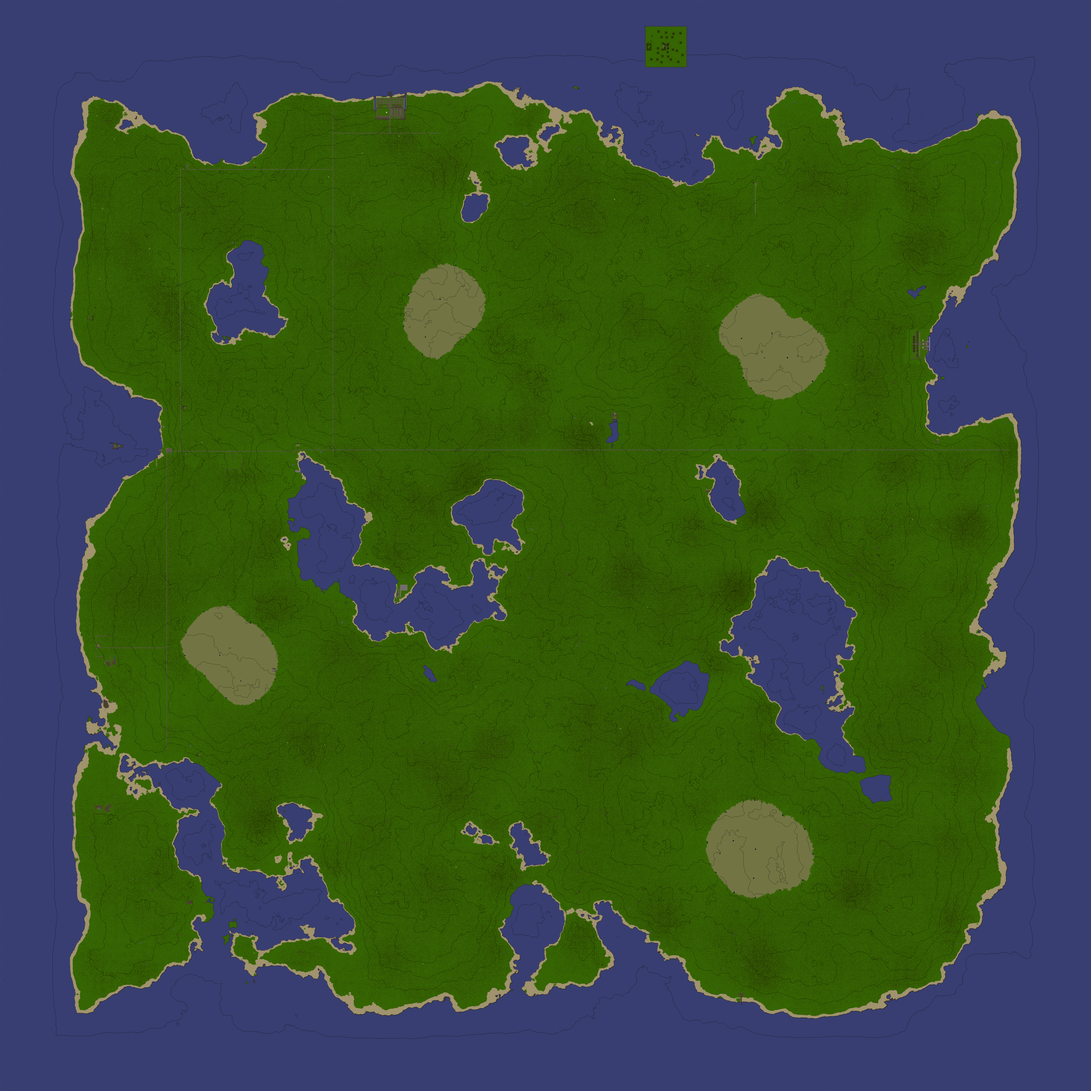
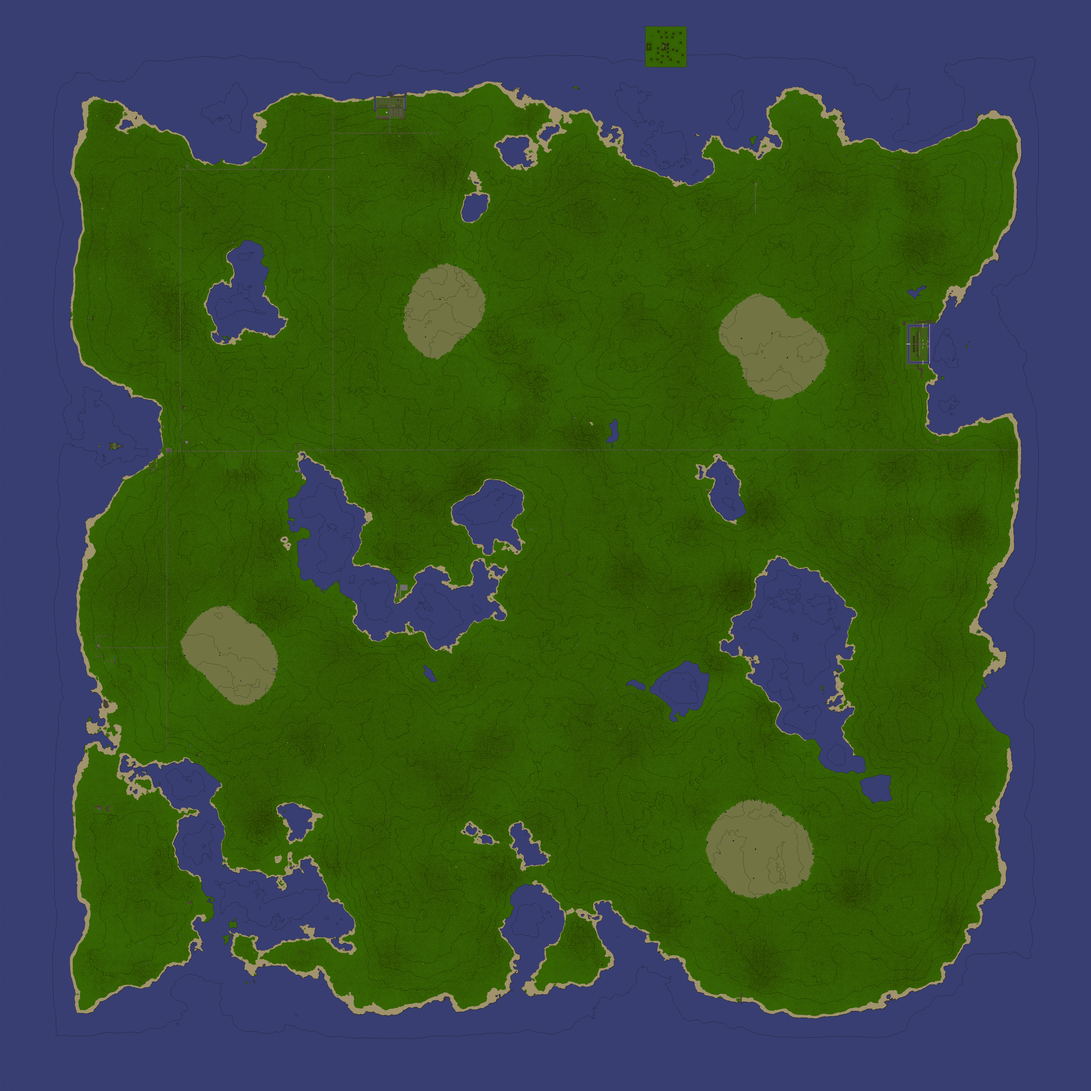
Add files via upload

Changed region(s): [[0.8125, 0.2812, 0.875, 0.3438], [0.3438, 0.0938, 0.375, 0.125]]

diff --git a/config.js b/config.js
@@ -74,37 +74,35 @@ deeds.push(new Deed('Aurora','Gaea','Gaea',1675474483281,false,4,637,1692,66,tru
 deeds.push(new Deed('Grukhanovill','Grukhan','Grukhan',1675674647878,false,4,615,1601,41,false,595,1596,623,1606,0));
 deeds.push(new Deed('Mystic Retreat','Peanut','Peanut',1675724177298,false,4,1464,398,44,false,1389,343,1539,461,5));
 deeds.push(new Deed('Portobelo','Kilem','Kilem',1675792074275,false,4,2836,689,240,false,2811,664,2861,714,0));
-deeds.push(new Deed('Art Of Zen','Zenity','Zenity',1675802758198,false,4,3370,633,182,false,3365,628,3380,638,0));
 deeds.push(new Deed('Hot Sauce Central','Frank','Frank',1675903902733,false,4,369,2423,106,false,363,2417,381,2433,0));
-deeds.push(new Deed('Wolfmere','Wolfdangler','Wolfdangler',1676057052473,false,4,882,931,3,false,862,911,902,941,0));
 deeds.push(new Deed('Peachstone','Zelan','Zelan',1676059323098,false,4,703,624,156,false,653,574,753,634,0));
 deeds.push(new Deed('Sleepy Town','Tinashunter','Tinashunter',1676089981423,false,4,416,2481,154,false,386,2461,436,2501,0));
 deeds.push(new Deed('Bull Shores Shipyards','Grommyboi','Grommyboi',1676230367627,false,4,3519,1656,63,false,3499,1636,3539,1676,0));
 deeds.push(new Deed('Purgatory','Baaz','Baaz',1676356791303,false,4,2456,2510,180,false,2446,2495,2466,2525,0));
 deeds.push(new Deed('Polonia','Czemiel','Czemiel',1676387465028,false,4,339,1194,108,false,329,1184,349,1202,0));
-deeds.push(new Deed('Avalon','Adoney','Adoney',1676514288526,true,4,366,3039,93,false,346,3019,387,3059,0));
 deeds.push(new Deed('Aberdine','Ziane','Ziane',1676514641050,true,4,408,3036,85,false,398,3011,436,3061,0));
 deeds.push(new Deed('Zimna Wodka','Ciastek','Ciastek',1676738889861,false,4,1983,3312,20,false,1968,3297,1998,3317,0));
 deeds.push(new Deed('Guppy Green','Drazin','Drazin',1676850955261,false,4,1055,1888,66,false,1048,1881,1062,1899,0));
 deeds.push(new Deed('Hots Pirate H Q','Cptjack','Cptjack',1676964555328,false,4,1487,2256,37,false,1457,2191,1532,2276,0));
-deeds.push(new Deed('Versailles','Cierra','Cierra',1677018567781,false,4,3468,1291,45,false,3413,1236,3498,1346,10));
+deeds.push(new Deed('Versailles','Cierra','Cierra',1677018567781,false,4,3468,1291,45,false,3393,1211,3498,1371,10));
 deeds.push(new Deed('White Pearl','Empress','Empress',1677095628827,false,4,3240,2909,11,false,3220,2889,3260,2929,0));
 deeds.push(new Deed('Grannys Star Place','Grannysmith','Grannysmith',1677433673302,false,4,954,618,67,false,934,598,974,635,0));
 deeds.push(new Deed('King\'s Cross','Buzka','Buzka',1677440511503,false,4,2335,3434,30,false,2330,3429,2340,3439,0));
 deeds.push(new Deed('Kleinhawe','Gromble','Gromble',1678427873783,false,4,617,1535,63,false,597,1525,637,1545,0));
 deeds.push(new Deed('Kito','Master','Master',1678449164984,false,4,1195,1673,180,false,1190,1668,1200,1678,0));
 deeds.push(new Deed('Serenity Valley','Steve','Steve',1678490811657,false,4,832,1311,52,false,827,1306,837,1316,0));
-deeds.push(new Deed('Rhamahold','Rhamshinn','Rhamshinn',1678548528650,false,4,2783,3728,33,false,2773,3718,2793,3738,0));
 deeds.push(new Deed('Hill Of Vynora','Temilia','Stewen',1678552293875,false,4,456,1674,45,false,411,1662,462,1686,0));
 deeds.push(new Deed('Grove','Forest','Forest',1678593072959,false,4,2669,1833,21,false,2648,1812,2690,1854,0));
 deeds.push(new Deed('Merryvale','Moontsu','Moontsu',1678624582781,false,4,693,1529,310,false,686,1523,700,1536,0));
 deeds.push(new Deed('The Dragon\'s Keep','Eveswaffora','Eveswaffora',1678795571378,false,4,872,1732,381,false,842,1702,902,1762,0));
 deeds.push(new Deed('Danger Island','Dragon','Dragon',1678831259293,false,4,2499,174,298,false,2419,94,2579,254,0));
 deeds.push(new Deed('Artems Post','Artem','Artem',1679030759739,false,4,746,2836,112,false,739,2816,753,2843,0));
-deeds.push(new Deed('Mercyful Fate','Venomus','Venomus',1679246995941,true,4,570,1760,52,false,565,1755,576,1766,0));
+deeds.push(new Deed('Mercyful Fate','Venomus','Venomus',1679246995941,true,4,570,1760,51,false,558,1740,590,1776,0));
 deeds.push(new Deed('Utopia','Pure','Pure',1679257154116,false,4,707,3388,110,false,692,3373,722,3403,0));
-deeds.push(new Deed('Northlake','General','General',1679306248279,false,4,2308,1559,20,false,2293,1544,2323,1574,0));
+deeds.push(new Deed('Northlake','General','General',1679306248279,false,4,2308,1559,36,false,2293,1544,2323,1574,0));
 deeds.push(new Deed('Stalwart Hold','Miragio','Miragio',1679331726591,false,4,1412,2423,82,false,1402,2413,1422,2433,0));
+deeds.push(new Deed('Dwarf Hideout','Temilia','Temilia',1679412469389,false,4,375,1339,111,false,370,1334,380,1344,0));
+deeds.push(new Deed('Beach Resort','Baccus','Baccus',1679989768186,true,4,410,2711,24,false,390,2696,430,2726,0));
 kingdoms[0] = new Kingdom(0,'no known kingdom','','[color-list]');
 kingdoms[1] = new Kingdom(1,'Jenn-Kellon','','');
 kingdoms[2] = new Kingdom(2,'Mol Rehan','','');
@@ -125,4 +123,4 @@ bridgeNodes = [
 ];
 tunnelNodes = [
 ];
-var timestamp = 1679396371433;
+var timestamp = 1679993381823;
